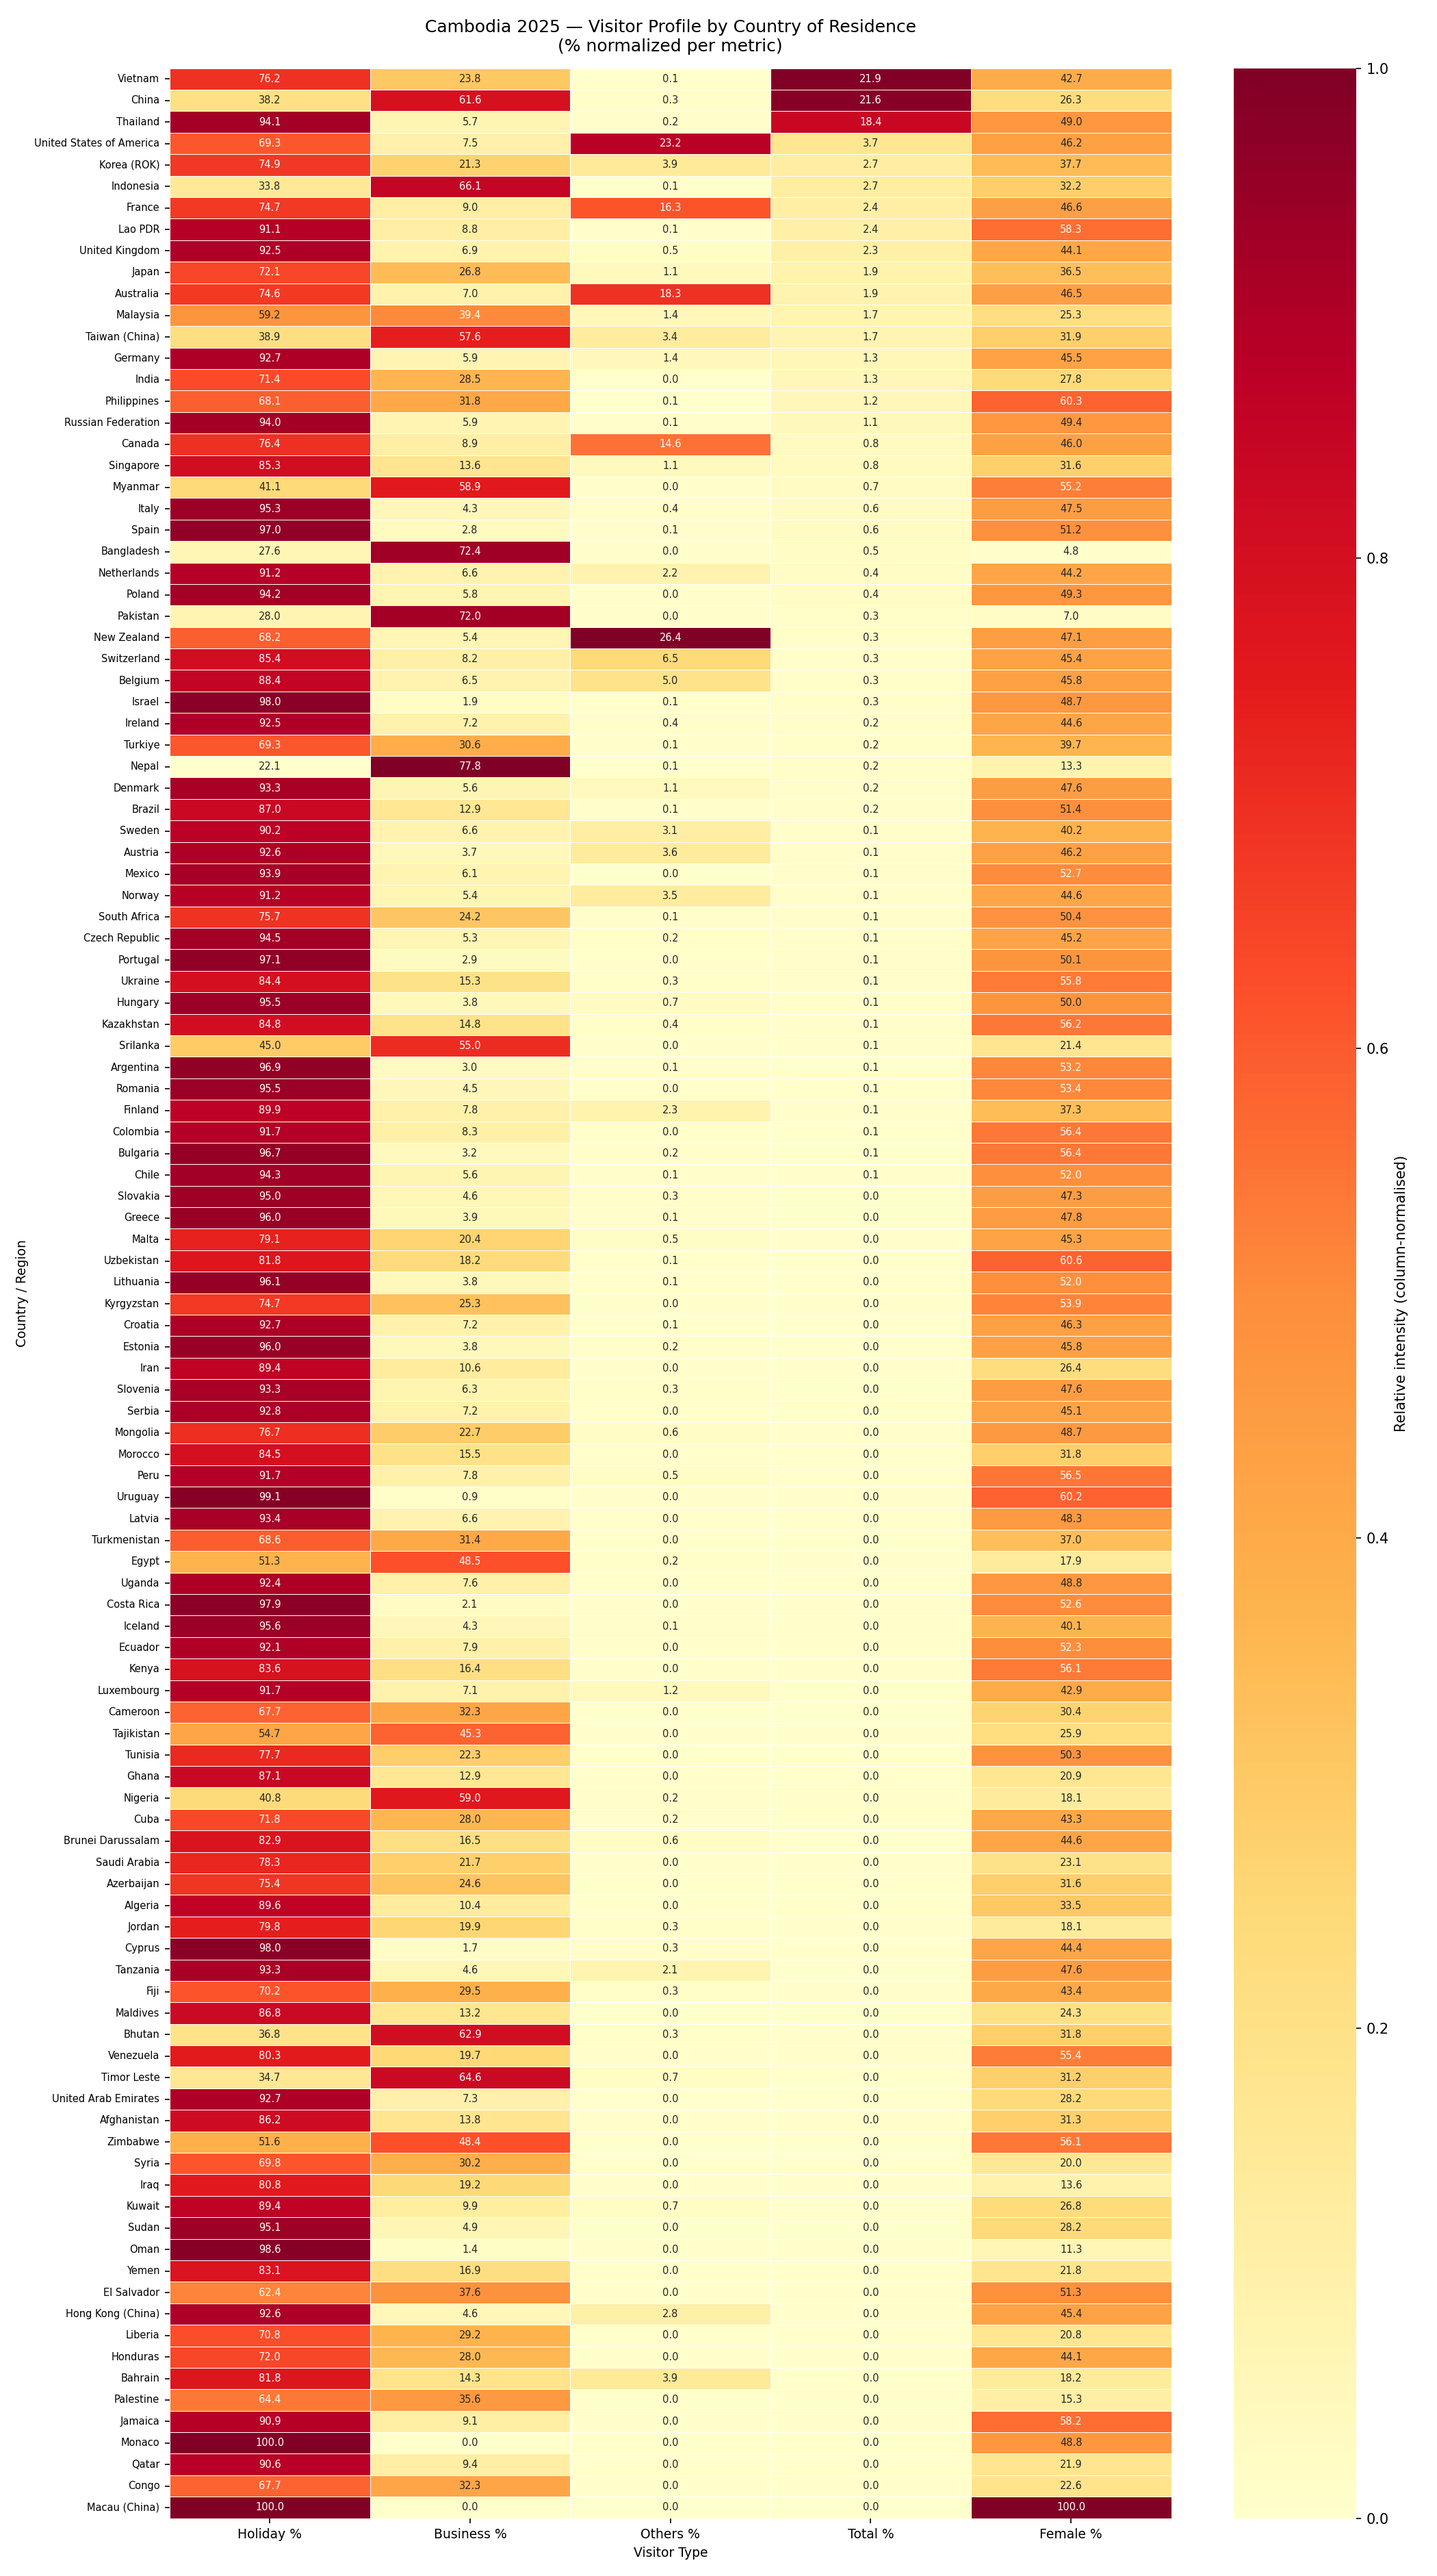
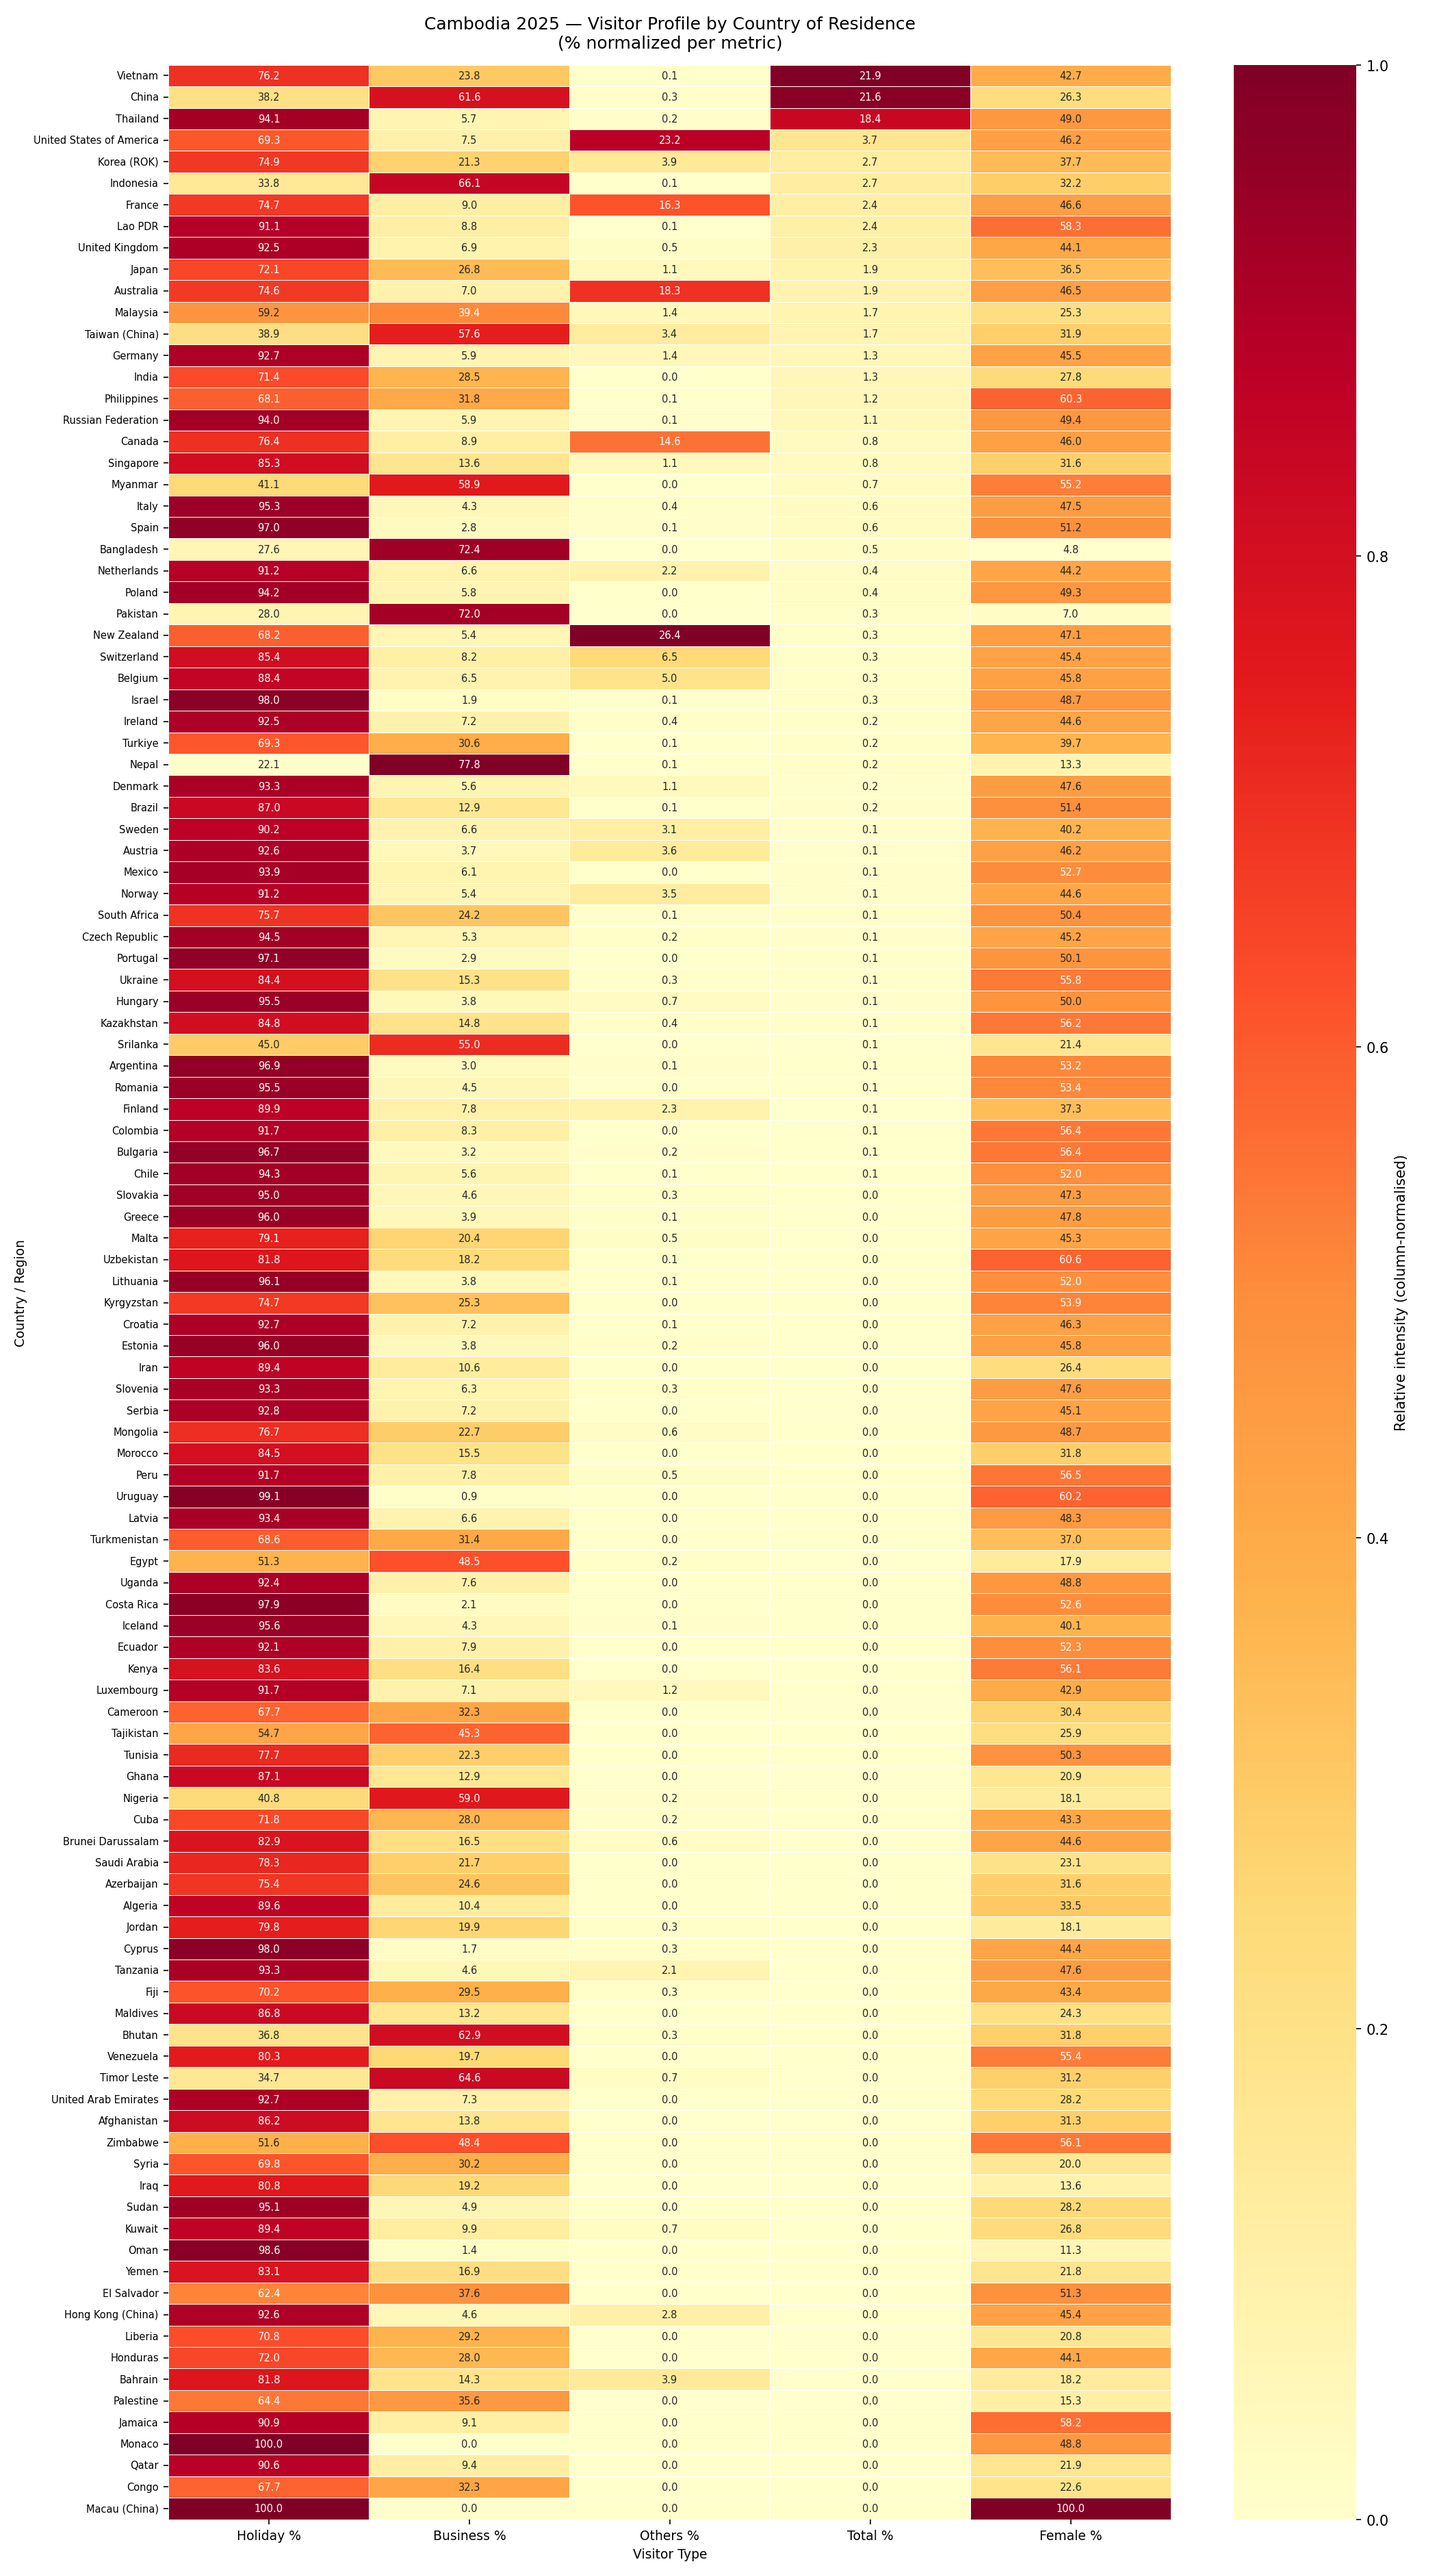
heatmap2

diff --git a/heatmap_2.py b/heatmap_2.py
@@ -5,8 +5,8 @@ import matplotlib.pyplot as plt
 import os
 
 # ── 1. Load & clean ──────────────────────────────────────────────────────────
-CSV_PATH = os.path.join("output", "06_arrivals_by_country_annual.csv")
-OUT_PATH = os.path.join("output", "heatmap_visitor_profile_2025.png")
+CSV_PATH = os.path.join("output", "10_arrivals_by_country_december.csv")
+OUT_PATH = os.path.join("output", "heatmap_visitor_profile_december_2025.png")
 
 df = pd.read_csv(CSV_PATH)
 
@@ -96,7 +96,7 @@ df_norm = df_pct.apply(
     lambda c: (c - c.min()) / (c.max() - c.min()) if c.max() != c.min() else pd.Series(0.5, index=c.index)
 )
 #save df_norm to csv for debugging
-df_pct.to_csv(os.path.join("output", "heatmap_normalized_values_annual.csv"))
+df_pct.to_csv(os.path.join("output", "heatmap_normalized_values_december.csv"))
 # ── 5. Build heatmap ──────────────────────────────────────────────────────────
 n_countries = len(df_pct)
 fig_height = max(12, n_countries * 0.22)
